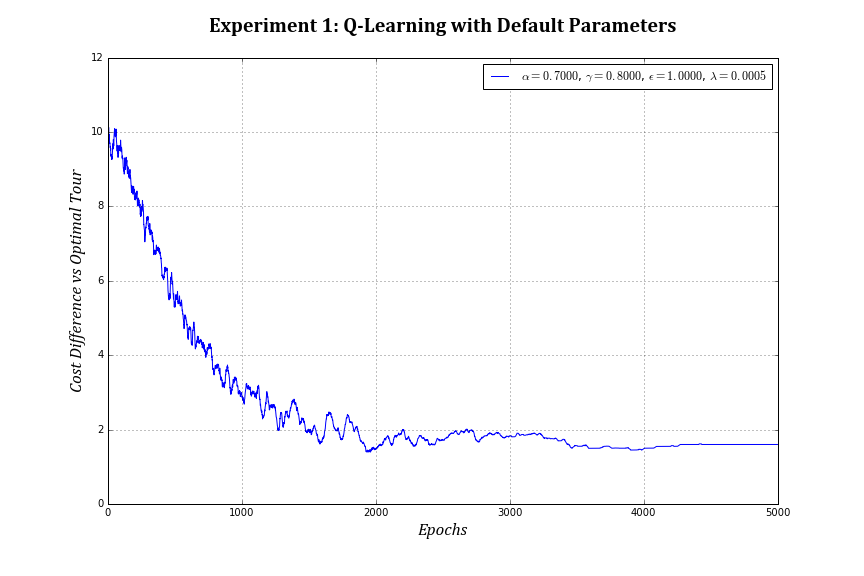
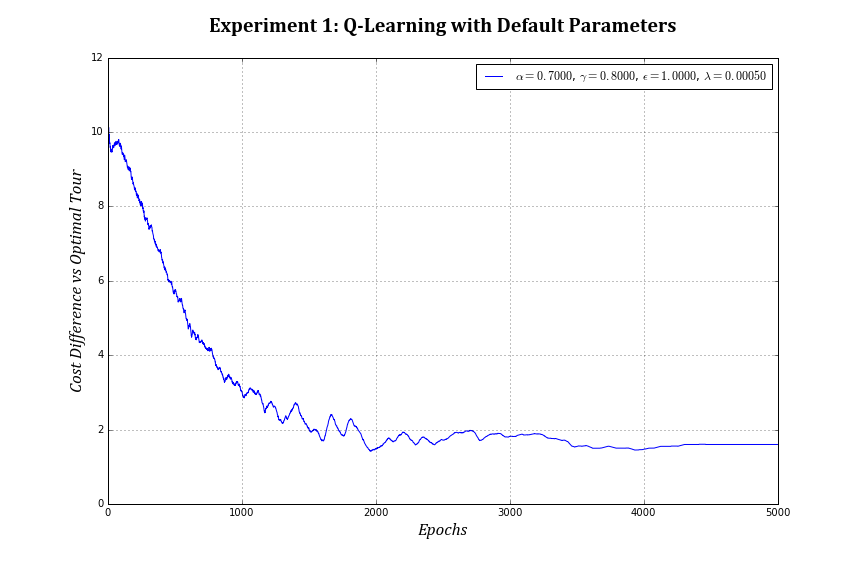
updated experiment plots (less crowding)

diff --git a/tspExperiments.py b/tspExperiments.py
@@ -35,7 +35,7 @@ gammas = [0.8]
 epsilons = [1.0]
 epsilon_decays = [0.0005]
 
-baseline = 120
+baseline = optimal_route_cost
 
 # moving average 'smoothing rate'
 smooth = 20
@@ -63,7 +63,7 @@ plotData = getWindowAverage(plotData, smooth)
 legendData = parameter_records
 
 # generate and save plots
-diagnosticsPlot(plotData, legendData, title, saveFile = True)
+diagnosticsPlot(plotData, legendData, title, saveFile = False)
 #plotLines(window_ave,alphas, 120, title, True)
 #plt.figure(figsize=(12,8))
 #plt.plot(window_ave)
@@ -72,8 +72,8 @@ diagnosticsPlot(plotData, legendData, title, saveFile = True)
 #plt.savefig(title)
 
 # save results
-np.save('expResults1', mean_costs_matrix)
-pickle.dump(parameter_records, open( "expParameters1.p", "wb" ))   
+#np.save('expResults1', mean_costs_matrix)
+#pickle.dump(parameter_records, open( "expParameters1.p", "wb" ))   
 
 
 #%% Q-Learning Experiment 2: Vary Learning Rate (Alpha)
@@ -99,7 +99,7 @@ plotData = getWindowAverage(plotData, smooth)
 legendData = parameter_records
 
 # generate and save plots
-diagnosticsPlot(plotData, legendData, title, saveFile = True)
+diagnosticsPlot(plotData, legendData, title, saveFile = False)
 #plotLines(window_ave, alphas, 120, title, True)
 #plt.figure(figsize=(12,8))
 #plt.plot(window_ave)
@@ -108,8 +108,8 @@ diagnosticsPlot(plotData, legendData, title, saveFile = True)
 #plt.savefig(title)
 
 # save results
-np.save('expResults2', mean_costs_matrix)
-pickle.dump(parameter_records, open( "expParameters2.p", "wb" ))  
+#np.save('expResults2', mean_costs_matrix)
+#pickle.dump(parameter_records, open( "expParameters2.p", "wb" ))  
 
 
 #%% Q-Learning Experiment 3: Vary Gamma
@@ -135,7 +135,7 @@ plotData = getWindowAverage(plotData, smooth)
 legendData = parameter_records
 
 # generate and save plots
-diagnosticsPlot(plotData, legendData, title, saveFile = True)
+diagnosticsPlot(plotData, legendData, title, saveFile = False)
 #plotLines(window_ave, alphas, 120, title, True)
 #plt.figure(figsize=(12,8))
 #plt.plot(window_ave)
@@ -144,8 +144,8 @@ diagnosticsPlot(plotData, legendData, title, saveFile = True)
 #plt.savefig(title)
 
 # save results
-np.save('expResults3', mean_costs_matrix)
-pickle.dump(parameter_records, open( "expParameters3.p", "wb" ))  
+#np.save('expResults3', mean_costs_matrix)
+#pickle.dump(parameter_records, open( "expParameters3.p", "wb" ))  
 
 
 #%% Q-Learning Experiment 4: Vary Epsilon Decay
@@ -171,7 +171,7 @@ plotData = getWindowAverage(plotData, smooth)
 legendData = parameter_records
 
 # generate and save plots
-diagnosticsPlot(plotData, legendData, title, saveFile = True)
+diagnosticsPlot(plotData, legendData, title, saveFile = False)
 #plotLines(window_ave, alphas, 120, title, True)
 #plt.figure(figsize=(12,8))
 #plt.plot(window_ave)
@@ -180,8 +180,8 @@ diagnosticsPlot(plotData, legendData, title, saveFile = True)
 #plt.savefig(title)
 
 # save results
-np.save('expResults4', mean_costs_matrix)
-pickle.dump( parameter_records, open("expParameters4.p", "wb" ))                    
+#np.save('expResults4', mean_costs_matrix)
+#pickle.dump( parameter_records, open("expParameters4.p", "wb" ))                    
 
 
 #%% Clear Redundant Variables from workspace
@@ -194,8 +194,7 @@ del start, epochs, sampling_runs, goal_reward
 # clear any variables created solely for 'looping' purposes
 del file_name
 
-# clear non-aggregate metrics variables
-#del euler_gamma, pi
+
 
 
 

diff --git a/tspFunctions.py b/tspFunctions.py
@@ -369,7 +369,7 @@ def testParameters(alphas, gammas, epsilons, epsilon_decays,  sampling_runs, epo
                 for d in range(0, np.size(epsilon_decays)):
                     
                     alpha = alphas[a]; gamma = gammas[g]; epsilon = epsilons[e]; epsilon_decay = epsilon_decays[d]
-                    print('\nRunning Variant %s [Alpha: %.4f, Gamma: %.4f, Epsilon: %.4f, Decay: %.4f]...' % (loop_idx+1, alpha, gamma, epsilon, epsilon_decay))
+                    print('\nRunning Variant %s [Alpha: %.4f, Gamma: %.4f, Epsilon: %.4f, Decay: %.5f]...' % (loop_idx+1, alpha, gamma, epsilon, epsilon_decay))
     
                     for sampling_run in range (0, sampling_runs):
                     
@@ -385,7 +385,7 @@ def testParameters(alphas, gammas, epsilons, epsilon_decays,  sampling_runs, epo
                         # calculate mean costs across all 'sampling_runs'
                         mean_costs = np.mean(costs_matrix, 1)
                      
-                    ps_dic[loop_idx] = (r'$\alpha = %.4f$, $\gamma = %.4f$, $\epsilon = %.4f$, $\lambda = %.4f$' % (alpha, gamma, epsilon, epsilon_decay)) 
+                    ps_dic[loop_idx] = (r'$\alpha = %.4f$, $\gamma = %.4f$, $\epsilon = %.4f$, $\lambda = %.5f$' % (alpha, gamma, epsilon, epsilon_decay)) 
                     #ps_dic[loop_idx] = ('A [%.2f], G [%.2f], E [%.2f], D [%.4f]' % (alpha, gamma, epsilon, epsilon_decay))   
                     mean_costs_matrix[:, loop_idx] = mean_costs; loop_idx +=1
                     
